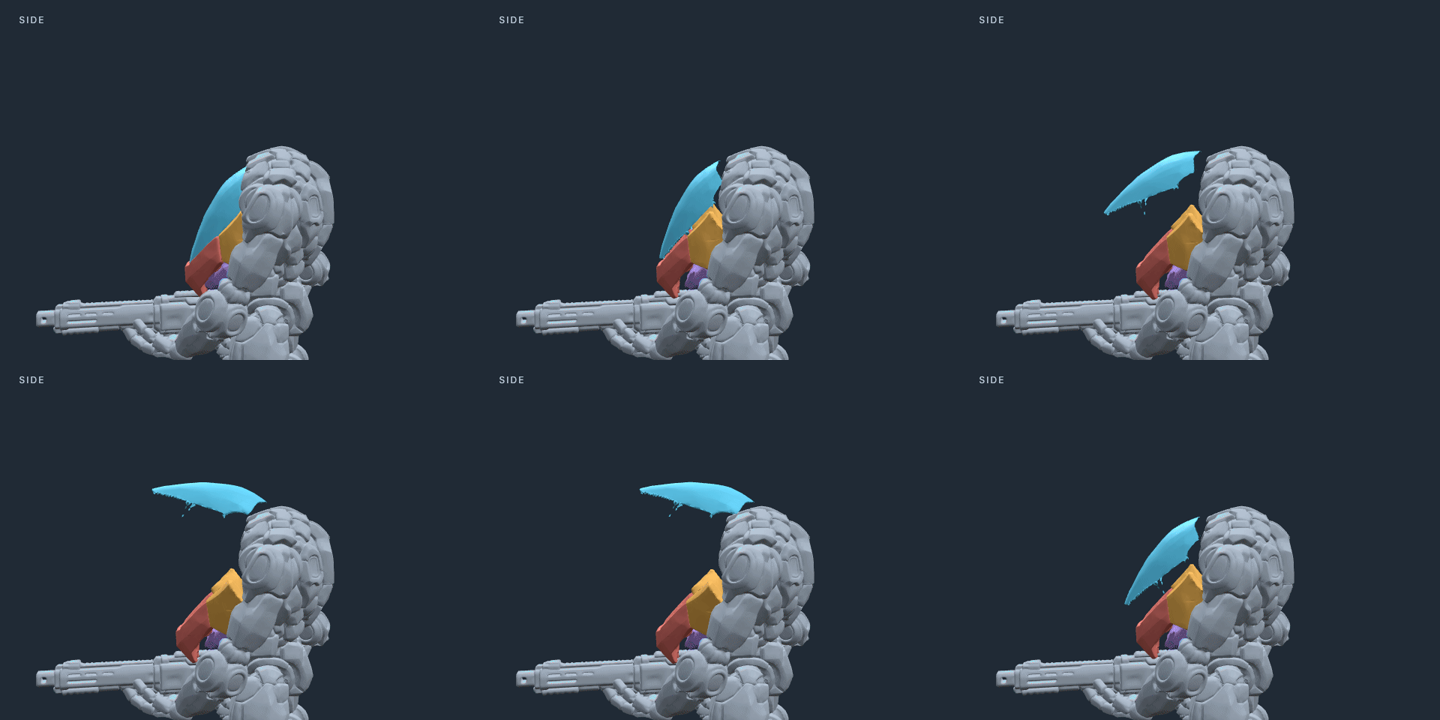
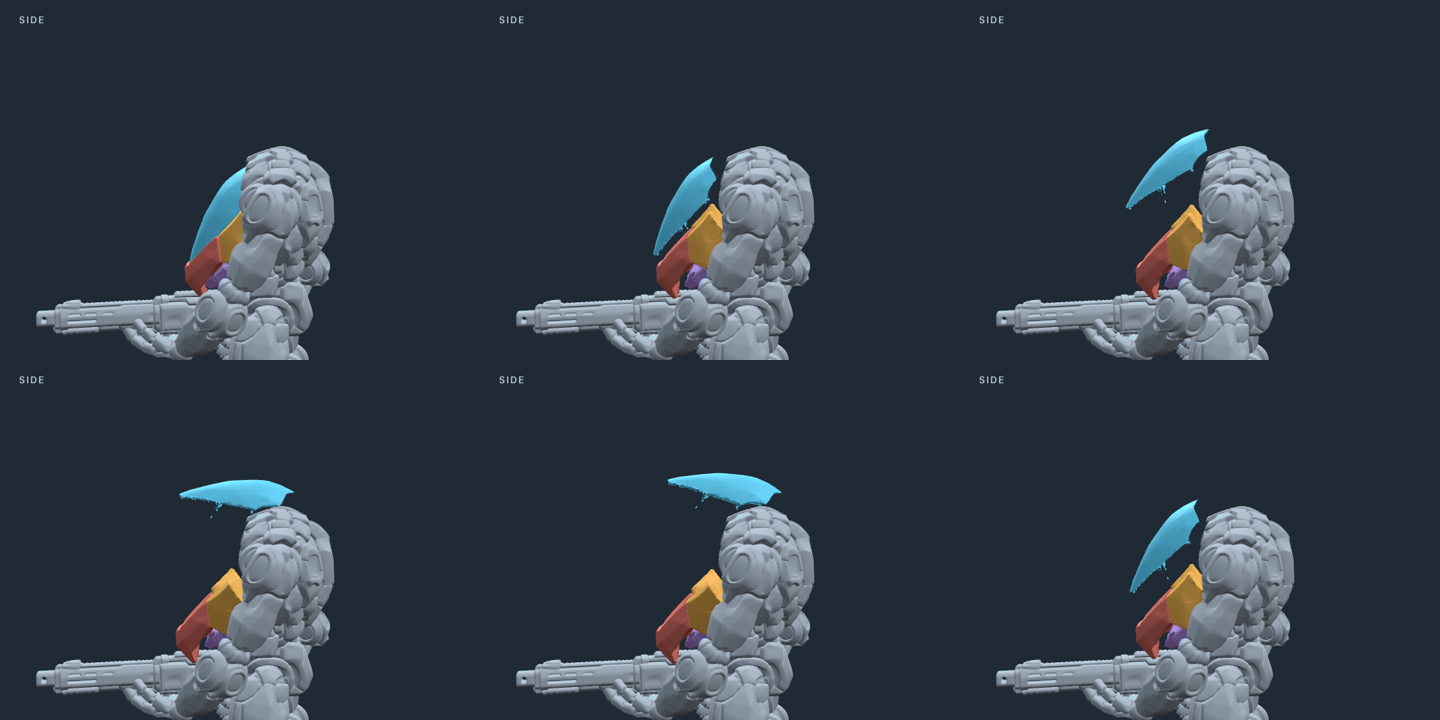
refine: make continuous rearward canopy slide drive opening

diff --git a/output/cockpit-mechanical/README.md b/output/cockpit-mechanical/README.md
@@ -2,7 +2,7 @@
 
 Saved review candidate on `codex/strokah-cockpit-mechanical`, based on current `main` (`be4cb5ad`) plus only the requested animation skills commit. No merge, publication, Unity integration, damage, limb-loss, melee, shield or ejection work.
 
-The latest direction is applied: the cheeks make a short seam release, then angle outward about lower attachment pivots with no further outward translation. The central chin has a smaller slide. The canopy follows a backward sliding path over the crown and stops at a low baseball-cap brim angle. The canopy remains a thin outer-surface preview; its original internal solid mass is retained hidden for later cleanup. Diagnostic colors identify the panels.
+The latest direction is applied: the cheeks make a short seam release, then angle outward about lower attachment pivots with no further outward translation. The central chin has a smaller slide. The canopy uses a continuous 0.165-unit backward guide stroke over the crown and stops at a low baseball-cap brim angle. Guide translation and tilt begin together immediately after release and share one progression through full opening; there is no hinge-first phase. The canopy remains a thin outer-surface preview; its original internal solid mass is retained hidden for later cleanup. Diagnostic colors identify the panels.
 
 ## Review
 
@@ -21,7 +21,7 @@ The original closed transforms are retained exactly. The glass preview uses the 
 
 | Role | Authored mesh | Motion at full opening, export units |
 |---|---|---|
-| Canopy | `tripo_part_61.001` | short release, then 0.085 backward guide travel with 65° rotation; stops at a low brim |
+| Canopy | `tripo_part_61.001` | short release, then 0.165 backward guide travel with 65° rotation; stops at a low brim |
 | Left cheek | `tripo_part_57.004` | +0.012 sideways/+0.026 forward release, then 20° outward about its lower attachment |
 | Right cheek | `tripo_part_57.005` | −0.012 sideways/+0.026 forward release, then mirrored 20° outward about its lower attachment |
 | Chin | `tripo_part_new_0.001` | +0.021 forward, −0.012 down |
@@ -40,7 +40,7 @@ Native equivalent: select `CTRL_Cockpit_Open`, custom property `open_amount`. It
 
 ## Validation and limits
 
-- Four focused Node tests pass, including the actual accepted GLB, 200 bound-model reversal cycles, 1,000 scalar cycles, held pose, ancestor rotation, rigid unit scales, and exact reseating without limb/weapon transform drift.
+- Five focused Node tests pass, including the actual accepted GLB, 200 bound-model reversal cycles, 1,000 scalar cycles, held pose, ancestor rotation, rigid unit scales, exact reseating without limb/weapon transform drift, and continuous slide-driven canopy tilt.
 - Actual browser buttons were exercised: open, hold, close mid-cycle, reopen, fully close.
 - Reopened native-file parity: maximum matrix error 1.8328429e-6 across sampled forward and reverse states.
 - Native mesh/rest-bone preservation: all 196 original mesh geometries and all 62 rest bones match the accepted source. No ankle proportions, rest lengths, or mesh vertex coordinates changed.
